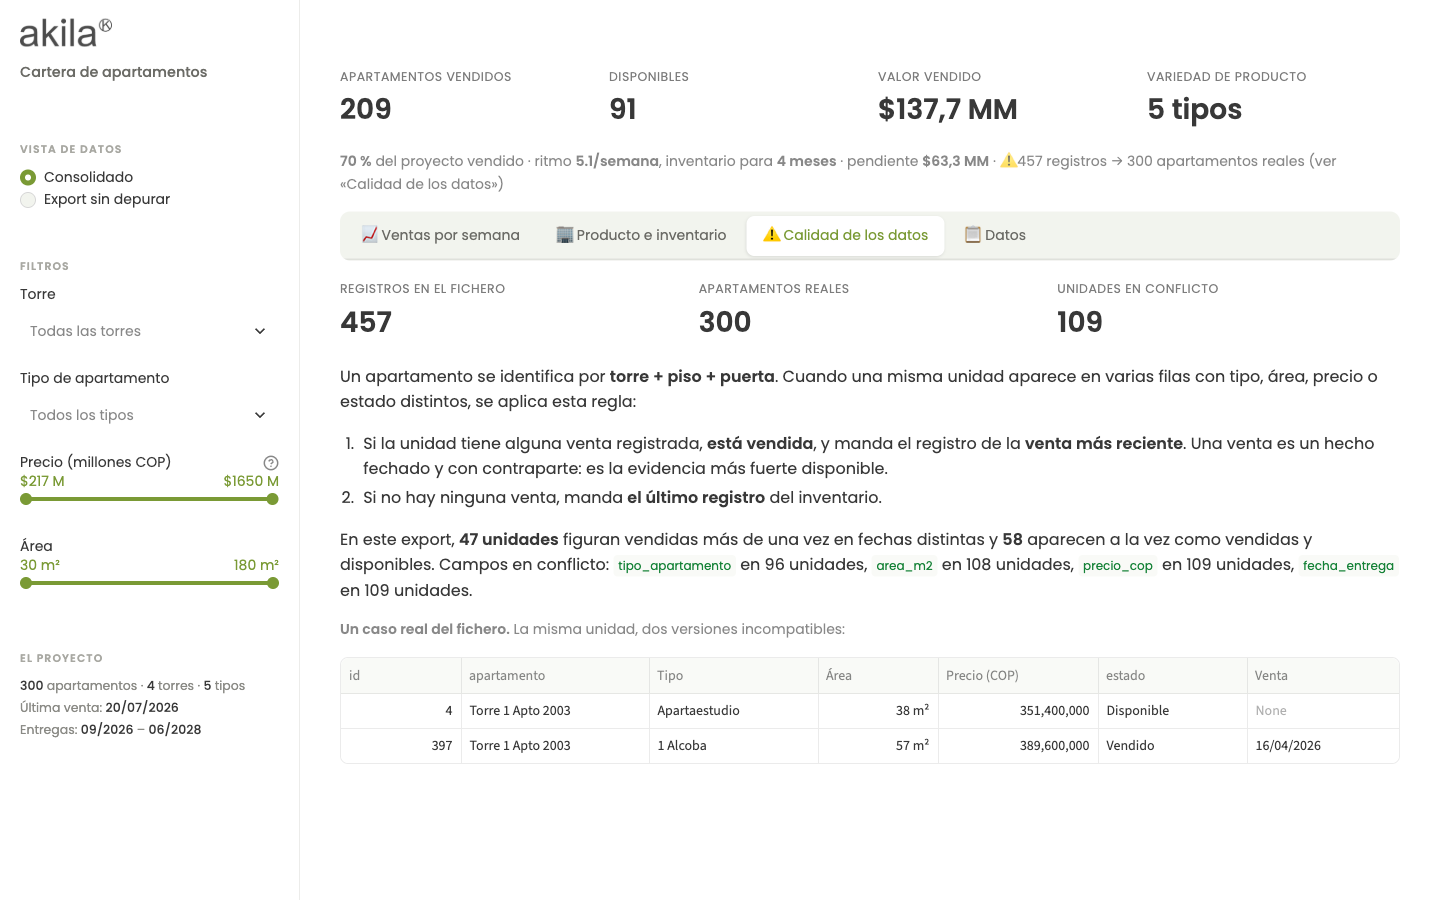
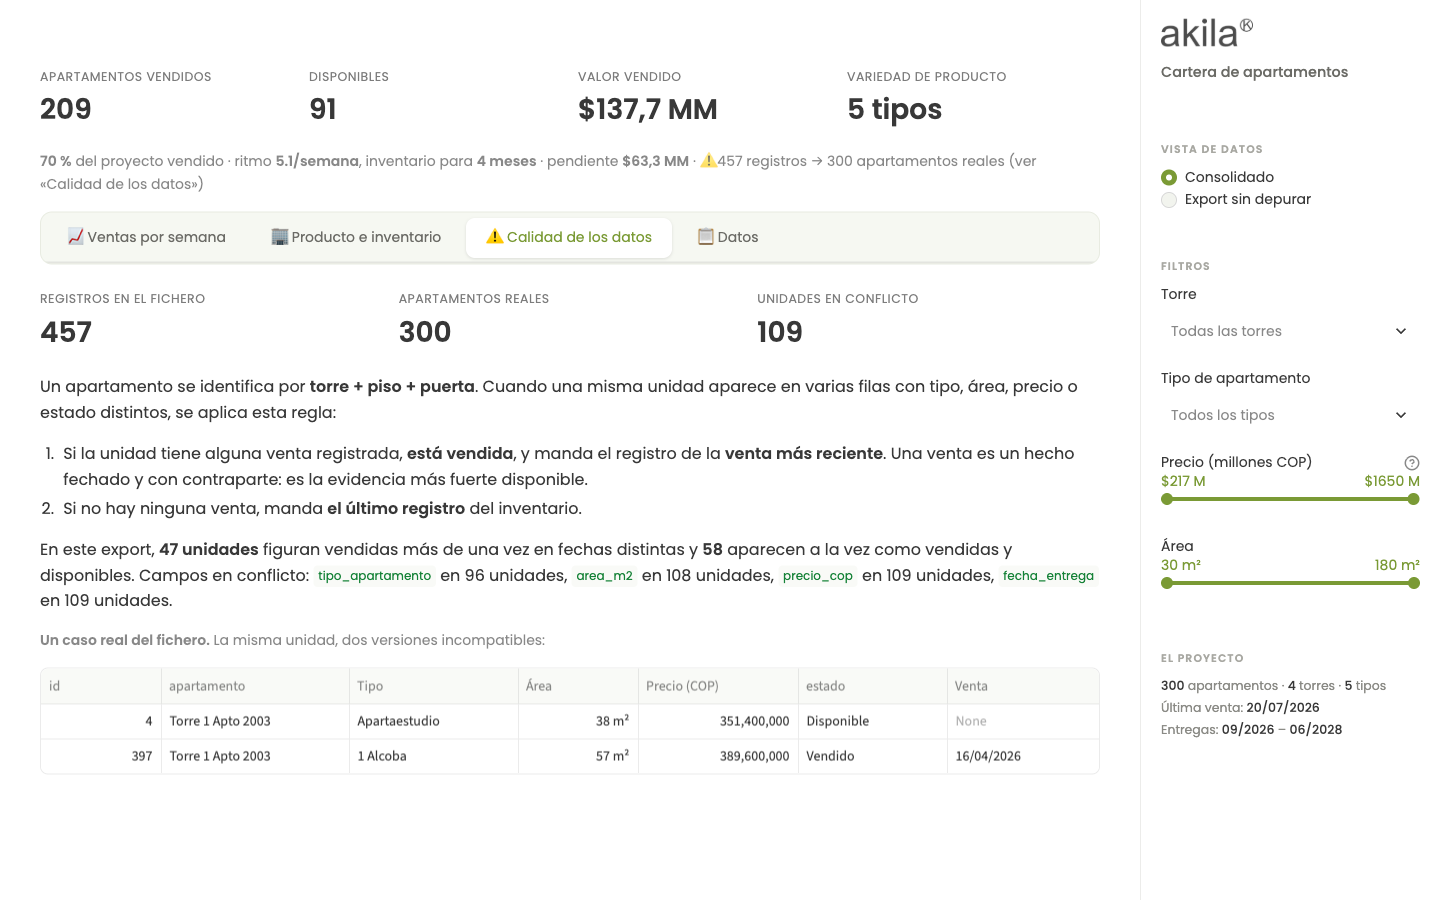
Lleva los filtros al panel derecho y refuerza la navegación
Separa dos cosas que se usan de forma distinta: arriba queda qué se mira —los
indicadores y la navegación entre vistas— y a la derecha con qué se acota, que
es donde la mano vuelve una y otra vez.

Streamlit tiene un único panel lateral y lo coloca a la izquierda, así que se
invierte el orden del contenedor. Es una sola regla, y es reversible por diseño:
si dejara de aplicar en una versión futura, el panel vuelve a su sitio y el
tablero sigue funcionando igual — el fallo sería de colocación, nunca de
funcionamiento.

Con los filtros fuera, la fila de vistas pasa a ser lo único que indica dónde
estás, así que se trata como una barra de navegación: más alto, más aire, borde
propio y respuesta al pasar el cursor.

Arregla de paso dos incoherencias que salieron al mover el panel: el control
para reabrirlo seguía anclado a la izquierda, y las flechas de plegar apuntaban
al lado donde Streamlit espera tener el panel.

Como red de seguridad: la versión mayor de Streamlit queda acotada y una prueba
nueva verifica que el panel sigue a la derecha.

Verificado en 1024x768, 1280x720, 1366x768, 1440x900 y 1920x1080: sin scroll,
sin desborde horizontal y sin indicadores cortados en ninguno.

diff --git a/ejercicio2_dashboard/dashboard/app.py b/ejercicio2_dashboard/dashboard/app.py
@@ -113,6 +113,16 @@ st.markdown(
         font-family: 'Poppins', system-ui, -apple-system, 'Segoe UI', sans-serif;
       }}
 
+      /* El panel de filtros, a la derecha.
+         Streamlit solo tiene un panel lateral y lo coloca a la izquierda, así
+         que se invierte el orden de las dos columnas del contenedor. Separa lo
+         que se mira —la navegación, arriba— de con qué se acota, que es donde
+         la mano vuelve una y otra vez.
+         Si esta regla dejara de aplicar en una versión futura, el panel vuelve
+         a su sitio de origen y el tablero sigue funcionando igual: el fallo
+         sería de colocación, nunca de funcionamiento. */
+      [data-testid="stAppViewContainer"] {{ flex-direction: row-reverse; }}
+
       /* 3 rem, no menos: Streamlit fija una barra superior propia y con menos
          margen las etiquetas de los indicadores quedan por debajo de ella. */
       .block-container {{
@@ -128,10 +138,18 @@ st.markdown(
       [data-testid="stToolbar"] [data-testid="stBaseButton-header"],
       [data-testid="stMainMenuButton"] {{ display: none; }}
 
-      /* Ese control aparece solo con la barra plegada, y de serie es un icono
+      /* Ese control aparece solo con el panel plegado, y de serie es un icono
          suelto que se pierde contra el fondo. Aquí se presenta como un botón
-         con la marca, para que se vea que hay algo que abrir. */
+         con la marca, para que se vea que hay algo que abrir.
+         Va anclado a la derecha: Streamlit lo deja a la izquierda, que es
+         donde vivía el panel antes de moverlo, y un botón que abre algo desde
+         el lado contrario despista más que ayuda. */
       [data-testid="stExpandSidebarButton"] {{
+        position: fixed;
+        top: 0.8rem;
+        right: 1rem;
+        left: auto;
+        z-index: 100;
         background: {VERDE};
         border-radius: 8px;
         padding: 0.3rem;
@@ -140,6 +158,13 @@ st.markdown(
       [data-testid="stExpandSidebarButton"]:hover {{ background: {GRIS_MARCA}; }}
       [data-testid="stExpandSidebarButton"] span,
       [data-testid="stExpandSidebarButton"] svg {{ color: #ffffff; fill: #ffffff; }}
+
+      /* Las flechas de plegar y desplegar apuntan al lado donde Streamlit
+         espera tener el panel. Con el panel a la derecha, señalarían al revés. */
+      [data-testid="stExpandSidebarButton"] [data-testid="stIconMaterial"],
+      [data-testid="stSidebarHeader"] [data-testid="stIconMaterial"] {{
+        transform: scaleX(-1);
+      }}
       [data-testid="stMetricValue"] {{
         font-size: 1.75rem;
         font-weight: 600;
@@ -155,7 +180,9 @@ st.markdown(
       /* --- Barra lateral --------------------------------------------------- */
       [data-testid="stSidebar"] {{
         background: #ffffff;
-        border-right: 1px solid #ececea;
+        /* El filete acompaña al panel: ahora separa por la izquierda. */
+        border-right: none;
+        border-left: 1px solid #ececea;
       }}
       /* Streamlit reserva 60 px arriba para el botón de plegar la barra, y eso
          dejaba una franja clara sobre el logo. El botón se superpone a la banda
@@ -210,20 +237,30 @@ st.markdown(
       }}
       .ficha strong {{ color: {GRIS_MARCA}; font-weight: 500; }}
 
-      /* --- Pestañas -------------------------------------------------------- */
+      /* --- Navegación entre vistas ----------------------------------------- */
+      /* Con los filtros a la derecha, esta fila es lo único que dice dónde
+         estás, así que se trata como una barra de navegación y no como unas
+         pestañas discretas: más alto, más aire y un borde que la asienta. */
       [data-testid="stTabs"] [data-baseweb="tab-list"],
       [data-testid="stTabs"] [role="tablist"] {{
-        gap: 0.25rem;
-        background: #f2f4ee;
-        padding: 0.28rem;
-        border-radius: 10px;
+        gap: 0.3rem;
+        background: #f6f8f2;
+        padding: 0.35rem;
+        border: 1px solid #e8ebe1;
+        border-radius: 12px;
+        margin-bottom: 0.4rem;
       }}
       [data-testid="stTabs"] [role="tab"] {{
-        padding: 0.4rem 1rem;
-        border-radius: 8px;
-        font-size: 0.92rem;
+        padding: 0.62rem 1.25rem;
+        border-radius: 9px;
+        font-size: 0.95rem;
         font-weight: 500;
         color: #6b6b66;
+        transition: background 120ms ease, color 120ms ease;
+      }}
+      [data-testid="stTabs"] [role="tab"]:hover {{
+        background: rgba(255, 255, 255, 0.65);
+        color: {GRIS_MARCA};
       }}
       /* El espacio entre el icono y el texto está en el propio rótulo; basta
          con impedir que el navegador lo colapse para que no queden pegados. */

diff --git a/ejercicio2_dashboard/tests/test_interfaz.py b/ejercicio2_dashboard/tests/test_interfaz.py
@@ -154,6 +154,29 @@ class TestMaquetacion:
         )
         assert cortados == [], f"Indicadores cortados: {cortados}"
 
+    def test_el_panel_de_filtros_esta_a_la_derecha(self, pagina):
+        """Streamlit coloca su único panel lateral a la izquierda.
+
+        El tablero lo lleva a la derecha invirtiendo el orden del contenedor,
+        para separar la navegación —arriba— de los filtros. La regla se apoya en
+        un nombre interno de Streamlit, así que esta prueba avisa si una versión
+        futura deja de aplicarla: el tablero seguiría funcionando, pero con la
+        maqueta cambiada.
+        """
+        p = pagina()
+        posiciones = p.evaluate(
+            """() => {
+              const panel = document.querySelector('[data-testid="stSidebar"]');
+              const contenido = document.querySelector('[data-testid="stMain"]');
+              return {panel: panel.getBoundingClientRect().left,
+                      contenido: contenido.getBoundingClientRect().left};
+            }"""
+        )
+        assert posiciones["panel"] > posiciones["contenido"], (
+            "El panel de filtros volvió a la izquierda: revisa la regla que "
+            "invierte el contenedor."
+        )
+
     def test_no_hay_errores_de_python_en_pantalla(self, pagina):
         p = pagina()
         assert p.locator('[data-testid="stException"]').count() == 0

diff --git a/ejercicio2_dashboard/README.md b/ejercicio2_dashboard/README.md
@@ -124,9 +124,20 @@ dashboard: está en el proceso que genera el export.
 
 ### Cómo está organizado
 
-Los indicadores de cabecera están siempre visibles y el detalle se reparte en
-cuatro pestañas: **Ventas por semana**, **Producto e inventario**, **Calidad de
-los datos** y **Datos**.
+La pantalla separa dos cosas que se usan de forma distinta: **arriba, qué se
+mira** —los indicadores y la navegación entre las cuatro vistas— y **a la
+derecha, con qué se acota**, que es donde la mano vuelve una y otra vez.
+
+Streamlit solo tiene un panel lateral y lo coloca a la izquierda, así que el
+tablero invierte el orden del contenedor para llevarlo a la derecha. Es una
+regla apoyada en un atributo interno de Streamlit, y por eso está acotada la
+versión mayor en `requirements.txt` y hay una prueba que verifica la posición
+del panel. Si aun así dejara de aplicar, **el panel vuelve a su sitio original y
+el tablero sigue funcionando igual**: el fallo sería de colocación, nunca de
+funcionamiento.
+
+El detalle se reparte en cuatro vistas: **Ventas por semana**, **Producto e
+inventario**, **Calidad de los datos** y **Datos**.
 
 No es una decisión estética. El enunciado pide entender el proyecto «de un
 vistazo», y el objetivo de maquetación es concreto: **que el gráfico completo,
@@ -135,7 +146,7 @@ arriba** — lo que queda visible en un portátil de 13" con el navegador
 maximizado. Verificado en ocho tamaños, de 1024 × 768 a 1920 × 1080.
 
 Para conseguirlo, el encabezado se mantiene deliberadamente corto: el título
-vive en la barra lateral, los indicadores no llevan chips de variación y todo el
+vive en el panel de filtros, los indicadores no llevan chips de variación y todo el
 contexto —avance, ritmo, inventario, aviso de calidad— cabe en un solo renglón.
 Cada línea que se añada ahí le quita altura al gráfico.
 
@@ -143,7 +154,7 @@ Cada línea que se añada ahí le quita altura al gráfico.
 
 Se dividen según su alcance, para que nunca haya duda de qué están afectando:
 
-- **En la barra lateral, los estructurales** (torre, tipo de apartamento, precio,
+- **En el panel derecho, los estructurales** (torre, tipo de apartamento, precio,
   área): describen *qué apartamentos* se están mirando y afectan a todo.
 - **En la pestaña de ventas, los del periodo comercial** (rango de fechas, forma
   de pago): solo tienen sentido sobre las ventas.
